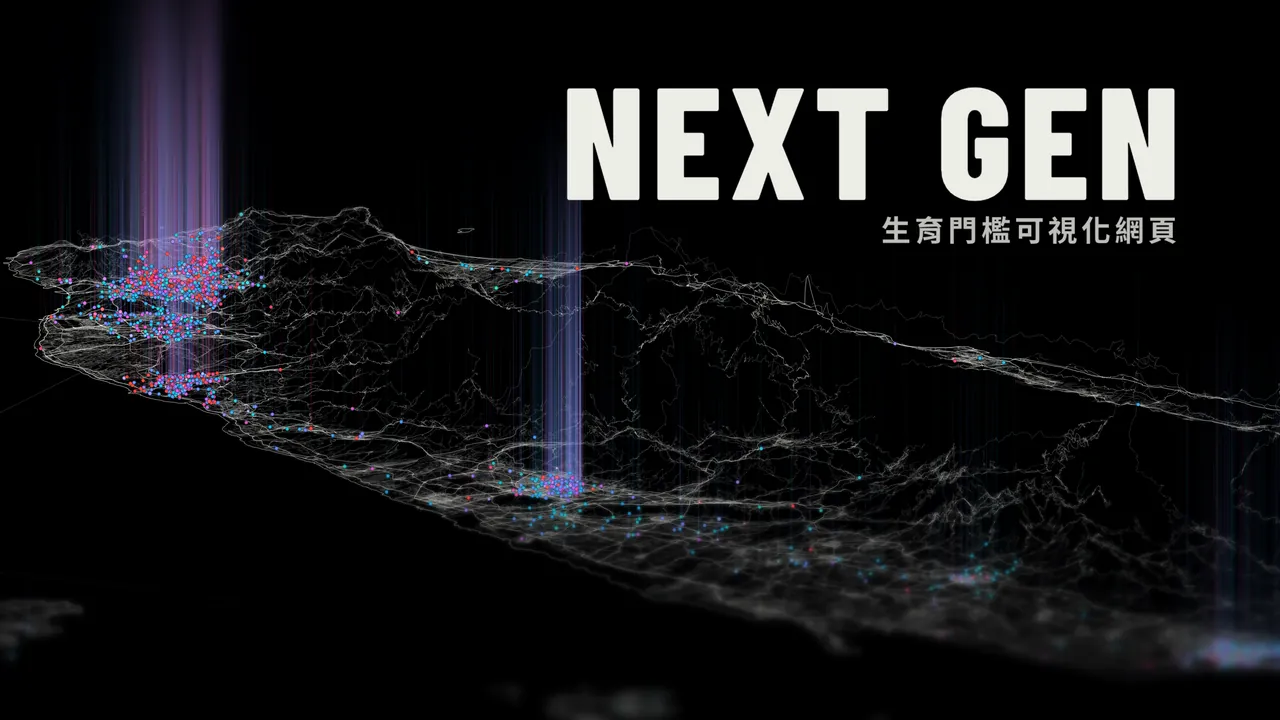
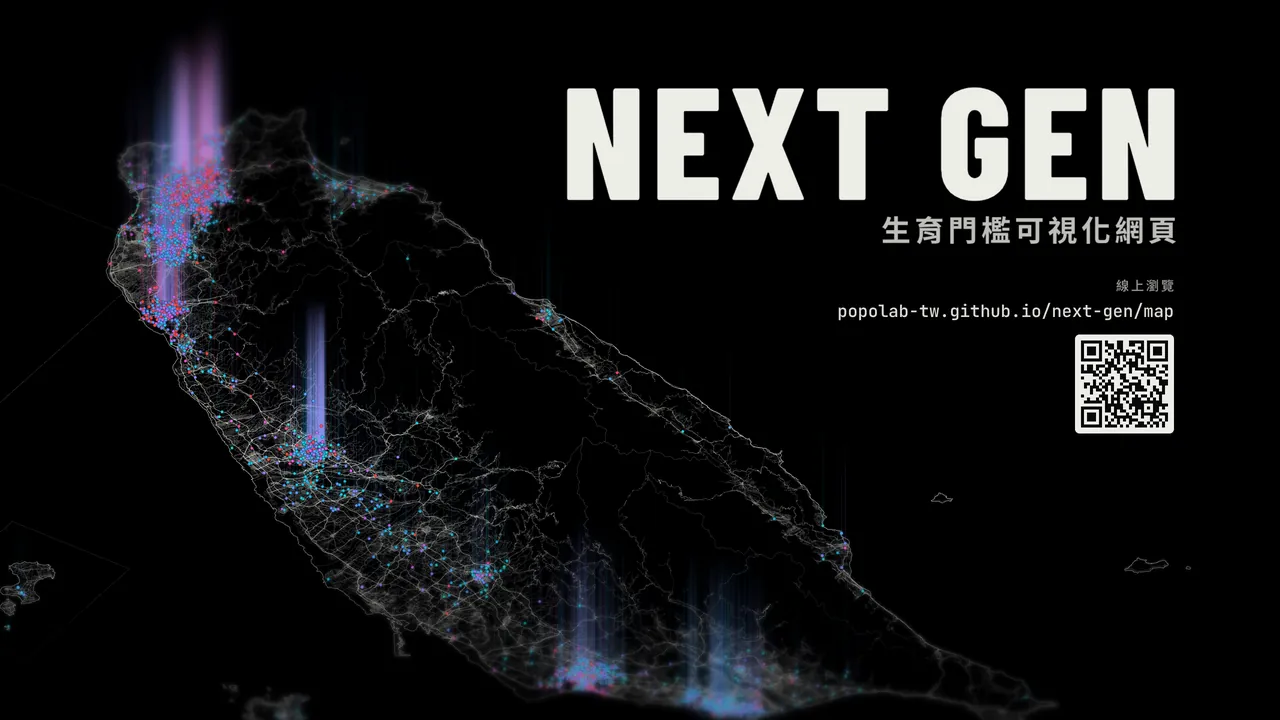
NEXT GEN：換上新的主視覺（含網址與 QR Code）
- 重新產生 kv-640／1280／1920 與社群預覽圖 og.jpg（build/ng_assets.py）；主視覺裡的 QR Code 已確認連到 NEXT GEN 網址
- 社群預覽圖網址加上版本號，Threads／LINE 等平台重新抓取時會拿到新圖

Claude-Session: https://claude.ai/code/session_01XDwZgGqeHrnbRfccS6Hth7

diff --git a/map/index.html b/map/index.html
@@ -12,7 +12,7 @@
 <meta property="og:title" content="NEXT GEN・生育門檻可視化網頁">
 <meta property="og:description" content="4,698 位玩家匿名分享的養育標準，放在 3D 台灣上：不同縣市、住法與托育方式的人，心中養孩子需要多高的收入。開場有專屬 MV。">
 <meta property="og:url" content="https://popolab-tw.github.io/next-gen/map/">
-<meta property="og:image" content="https://popolab-tw.github.io/next-gen/map/og.jpg">
+<meta property="og:image" content="https://popolab-tw.github.io/next-gen/map/og.jpg?v=1a178bacfd">
 <meta property="og:image:width" content="1200">
 <meta property="og:image:height" content="630">
 <meta property="og:image:alt" content="NEXT GEN 生育門檻可視化網頁：3D 台灣上的 4,698 個光點">

diff --git a/index.html b/index.html
@@ -960,7 +960,7 @@ button.wd-li:hover { background: var(--sheet-2); }
   </footer>
 </div>
 <script>
-window.__diag = { t0: Date.now(), build: '2026-11-11T11:25', timer: false, mc: false, raf: false, errors: [] };
+window.__diag = { t0: Date.now(), build: '2026-11-11T11:58', timer: false, mc: false, raf: false, errors: [] };
 setTimeout(function () { window.__diag.timer = true; }, 30);
 try { var __mc = new MessageChannel(); __mc.port1.onmessage = function () { window.__diag.mc = true; }; __mc.port2.postMessage(0); } catch (e) {}
 try { requestAnimationFrame(function () { window.__diag.raf = true; }); } catch (e) {}

diff --git a/build/ng.js b/build/ng.js
@@ -69,7 +69,7 @@ ${o.web ? `<link rel="canonical" href="${o.ngUrl}">
 <meta property="og:title" content="NEXT GEN・生育門檻可視化網頁">
 <meta property="og:description" content="${esc(o.desc)}">
 <meta property="og:url" content="${o.ngUrl}">
-<meta property="og:image" content="${o.ngUrl}og.jpg">
+<meta property="og:image" content="${o.ngUrl}og.jpg?v=${hash(RB('src/ng/og.jpg'))}">
 <meta property="og:image:width" content="1200">
 <meta property="og:image:height" content="630">
 <meta property="og:image:alt" content="NEXT GEN 生育門檻可視化網頁：3D 台灣上的 ${sep(N)} 個光點">
